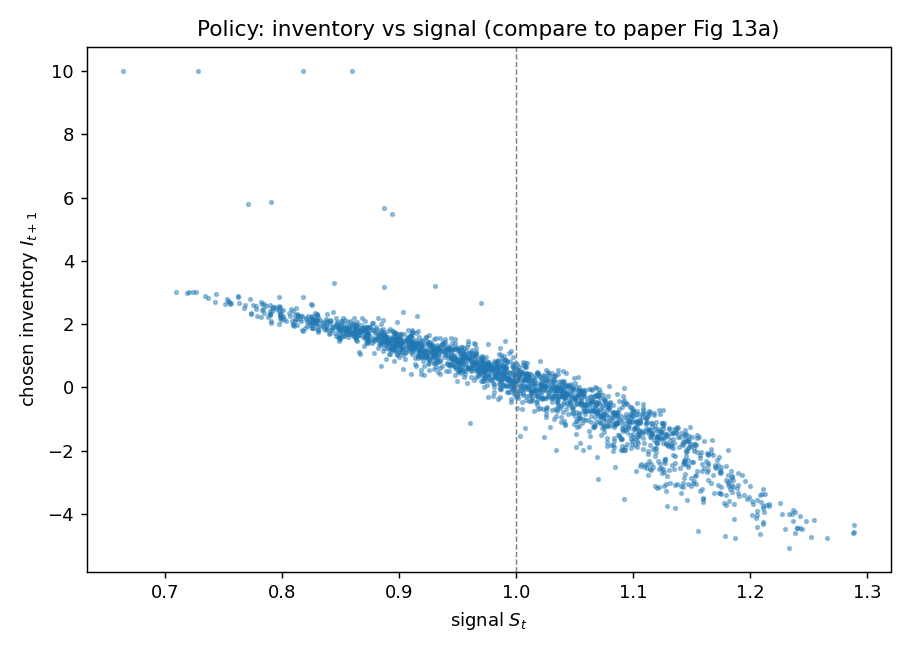
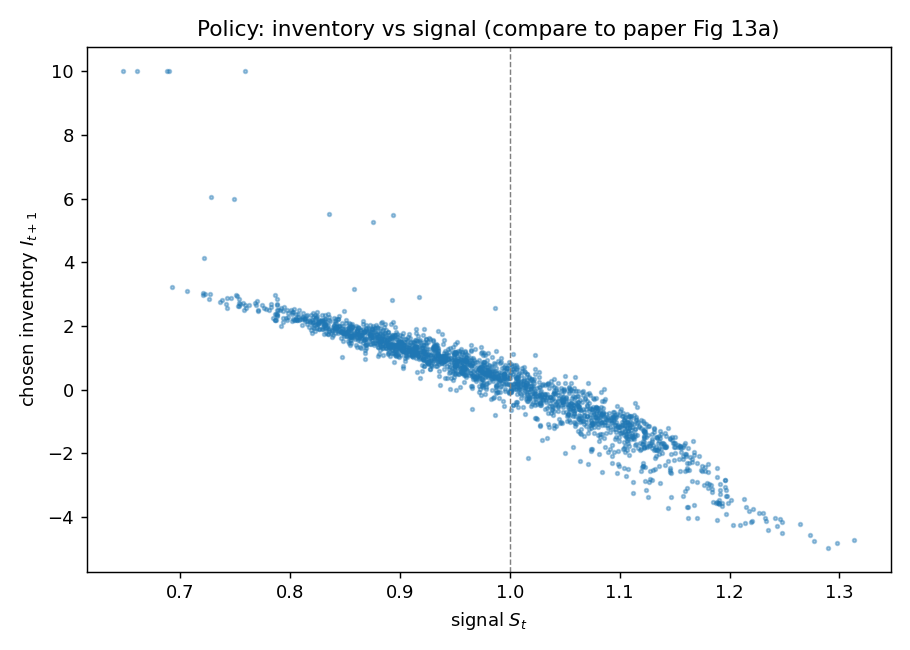
Added output

diff --git a/src/eval/plot_rewards.py b/src/eval/plot_rewards.py
@@ -1,0 +1,81 @@
+"""
+Reward histograms for hid-DDPG (paper Figures 5, 6, 7 -- single-method version).
+
+Each of the paper's Figs 5/6/7 is a 3x3 grid comparing the three algorithms for
+one scenario. For hid-DDPG alone you want the single "hid-DDPG" panel: a
+histogram of the M=500 test-episode cumulative rewards with the mean marked.
+
+Two ways to use this:
+
+  1. Call plot_reward_histogram(...) at the end of your existing eval script,
+     passing the episode_rewards array it already computes.
+
+  2. Run this file directly to plot from a saved .npy of episode rewards
+     (if you save them from eval).
+
+Save episode_rewards from eval with:
+    np.save(f"artifacts/rewards_scenario{cfg.scenario}_hid.npy", episode_rewards)
+"""
+
+import numpy as np
+import matplotlib.pyplot as plt
+
+
+def plot_reward_histogram(episode_rewards, scenario, out_path=None,
+                          bins=50, color="green", label="hid-DDPG"):
+    """
+    Histogram of cumulative rewards over the M test episodes (paper Fig 5/6/7 style).
+
+    Args:
+      episode_rewards : (M,) array of cumulative rewards, one per test episode.
+      scenario        : 1, 2, or 3 (used in the title).
+      out_path        : where to save the png; defaults to a scenario-based name.
+      bins, color     : histogram styling (paper uses green for hid-DDPG).
+    """
+    episode_rewards = np.asarray(episode_rewards)
+    mean = episode_rewards.mean()
+    std = episode_rewards.std()
+
+    # Scenario -> the paper's description of the data-generating process
+    mc_desc = {
+        1: r"$\theta$ modelled as a MC",
+        2: r"$\theta, \kappa$ modelled as a MC",
+        3: r"$\theta, \kappa, \sigma$ modelled as a MC",
+    }[scenario]
+
+    plt.figure(figsize=(7, 5))
+    plt.hist(episode_rewards, bins=bins, alpha=0.6, color=color,
+             label=f"{label} (Mean: {mean:.2f})")
+    plt.axvline(mean, color=color, linestyle="dashed", linewidth=1.8,
+                label=f"Mean ({label})")
+    plt.title(f"Histogram of rewards for {len(episode_rewards)} episodes "
+              f"with {mc_desc}")
+    plt.xlabel("Cumulative rewards")
+    plt.ylabel("Count")
+    plt.legend()
+    plt.grid(True, alpha=0.3)
+    plt.tight_layout()
+
+    if out_path is None:
+        out_path = f"figures/rewards_scenario{scenario}_hid.png"
+    plt.savefig(out_path, dpi=200)
+    plt.close()
+
+    print(f"saved {out_path}")
+    print(f"  mean {mean:.2f} +/- {std:.2f}  (n={len(episode_rewards)} episodes)")
+    return mean, std
+
+
+if __name__ == "__main__":
+    # Plot from saved reward arrays, if you saved them in eval.
+    import os
+    os.makedirs("figures", exist_ok=True)
+
+    for scenario in (1, 2, 3):
+        path = f"artifacts/rewards_scenario{scenario}_hid.npy"
+        if os.path.exists(path):
+            rewards = np.load(path)
+            plot_reward_histogram(rewards, scenario)
+        else:
+            print(f"skip scenario {scenario}: {path} not found "
+                  f"(save episode_rewards from eval first)")

diff --git a/src/eval/scenario1_hid_eval.py b/src/eval/scenario1_hid_eval.py
@@ -8,6 +8,7 @@ from src.models.ddpg import DDPG
 from src.models.gru import GRUEncoder
 from src.utils.config import load_config
 from src.utils.ou_args import ou_args_from_cfg
+from src.eval.plot_rewards import plot_reward_histogram
 
 
 cfg = load_config("configs/scenario1_hid.yaml")
@@ -22,7 +23,7 @@ print(f"seed: {seed}")
 encoder = GRUEncoder(cfg.d_h, cfg.d_l, enc_dim=cfg.enc_dim)
 ddpg = DDPG(cfg.state_dim, cfg.action_dim, cfg.d_NN, cfg.l_NN, cfg.I_max, cfg.gamma, cfg.tau, cfg.lr)   # no encoder arg
 
-ckpt = torch.load("artifacts/scenario1_hid.pt")
+ckpt = torch.load("artifacts/backup/scenario1_hid_backup.pt")
 ddpg.actor.load_state_dict(ckpt["actor"])
 ddpg.critic.load_state_dict(ckpt["critic"])
 encoder.load_state_dict(ckpt["encoder"])
@@ -35,8 +36,8 @@ invs = []
 
 with torch.no_grad():
     for i in range(cfg.M):
-        # TEST phase: fixed start S_0 = 1 (paper), inventory I_0 = 0.
-        S, _ = simulate_path(cfg.n, rng, cfg.regimes, cfg.A, cfg.dt, kappa=kappa, sigma=sigma, s0=1.0, **ou_kw)
+        S, _ = simulate_path(cfg.n, rng, cfg.regimes, cfg.A, cfg.dt,
+                             kappa=kappa, sigma=sigma, s0=1.0, **ou_kw)
         inventory = torch.zeros(1, 1)
         total_reward = 0.0
 
@@ -44,23 +45,27 @@ with torch.no_grad():
             window = torch.tensor(S[t-cfg.W:t+1], dtype=torch.float32).reshape(1, -1)
             S_t_col = torch.tensor([[S[t]]], dtype=torch.float32)
 
-            o_t, _ = encoder(window)                          # unpack: encoding head only
+            o_t, _ = encoder(window)
             S_t_norm = normalize_state_features(S_t_col)
             state = torch.cat([S_t_norm, inventory, o_t], dim=1)
 
-            action = ddpg.actor(state)                        # I_{t+1} (deterministic, no noise)
+            action = ddpg.actor(state)
             r = step_reward(inventory, action, S[t], S[t+1], cfg.lam)
             total_reward += r.item()
 
-            if i == 0:                                        # record first episode for the scatter
+            if i == 0:
                 signals.append(S[t])
                 invs.append(action.item())
 
-            inventory = action                                # roll forward: new inventory = action
+            inventory = action
 
-        episode_rewards.append(total_reward)
+        episode_rewards.append(total_reward)      # <-- only this, no np.array() here
 
-# --- scatter: chosen inventory vs signal (acceptance test vs paper Fig 13a) ---
+# --- convert ONCE, after the loop ---
+episode_rewards = np.array(episode_rewards)
+print(f"mean {episode_rewards.mean():.2f} +/- {episode_rewards.std():.2f}")
+
+# --- scatter (Fig 13a) ---
 plt.figure(figsize=(7, 5))
 plt.scatter(signals, invs, s=4, alpha=0.4)
 plt.axvline(1.0, color="gray", ls="--", lw=0.8)
@@ -69,6 +74,11 @@ plt.ylabel("chosen inventory $I_{t+1}$")
 plt.title("Policy: inventory vs signal (compare to paper Fig 13a)")
 plt.tight_layout()
 plt.savefig("policy_scatter.png", dpi=130)
+plt.close()
 
-episode_rewards = np.array(episode_rewards)
-print(f"mean {episode_rewards.mean():.2f} +/- {episode_rewards.std():.2f}")
+# --- save rewards + Figure 5/6/7 histogram ---
+import os
+os.makedirs("artifacts", exist_ok=True)
+os.makedirs("figures", exist_ok=True)
+np.save(f"artifacts/rewards_scenario{cfg.scenario}_hid.npy", episode_rewards)
+plot_reward_histogram(episode_rewards, cfg.scenario, bins=10)

diff --git a/src/eval/scenario2_hid_eval.py b/src/eval/scenario2_hid_eval.py
@@ -8,6 +8,7 @@ from src.models.ddpg import DDPG
 from src.models.gru import GRUEncoder
 from src.utils.config import load_config
 from src.utils.ou_args import ou_args_from_cfg
+from src.eval.plot_rewards import plot_reward_histogram
 
 
 cfg = load_config("configs/scenario2_hid.yaml")
@@ -22,7 +23,7 @@ print(f"seed: {seed}")
 encoder = GRUEncoder(cfg.d_h, cfg.d_l, enc_dim=cfg.enc_dim)
 ddpg = DDPG(cfg.state_dim, cfg.action_dim, cfg.d_NN, cfg.l_NN, cfg.I_max, cfg.gamma, cfg.tau, cfg.lr)   # no encoder arg
 
-ckpt = torch.load("artifacts/scenario2_hid.pt")
+ckpt = torch.load("artifacts/backup/scenario2_hid_backup.pt")
 ddpg.actor.load_state_dict(ckpt["actor"])
 ddpg.critic.load_state_dict(ckpt["critic"])
 encoder.load_state_dict(ckpt["encoder"])
@@ -69,6 +70,14 @@ plt.ylabel("chosen inventory $I_{t+1}$")
 plt.title("Policy: inventory vs signal (compare to paper Fig 13a)")
 plt.tight_layout()
 plt.savefig("policy_scatter2.png", dpi=130)
+plt.close()
 
 episode_rewards = np.array(episode_rewards)
 print(f"mean {episode_rewards.mean():.2f} +/- {episode_rewards.std():.2f}")
+
+# --- save rewards + Figure 6 histogram (scenario 2) ---
+import os
+os.makedirs("artifacts", exist_ok=True)
+os.makedirs("figures", exist_ok=True)
+np.save(f"artifacts/rewards_scenario{cfg.scenario}_hid.npy", episode_rewards)
+plot_reward_histogram(episode_rewards, cfg.scenario, bins=10)

diff --git a/src/eval/scenario3_hid_eval.py b/src/eval/scenario3_hid_eval.py
@@ -8,6 +8,7 @@ from src.models.ddpg import DDPG
 from src.models.gru import GRUEncoder
 from src.utils.config import load_config
 from src.utils.ou_args import ou_args_from_cfg
+from src.eval.plot_rewards import plot_reward_histogram
 
 
 cfg = load_config("configs/scenario3_hid.yaml")
@@ -22,7 +23,7 @@ print(f"seed: {seed}")
 encoder = GRUEncoder(cfg.d_h, cfg.d_l, enc_dim=cfg.enc_dim)
 ddpg = DDPG(cfg.state_dim, cfg.action_dim, cfg.d_NN, cfg.l_NN, cfg.I_max, cfg.gamma, cfg.tau, cfg.lr)   # no encoder arg
 
-ckpt = torch.load("artifacts/scenario3_hid.pt")
+ckpt = torch.load("artifacts/backup/scenario3_hid_backup.pt")
 ddpg.actor.load_state_dict(ckpt["actor"])
 ddpg.critic.load_state_dict(ckpt["critic"])
 encoder.load_state_dict(ckpt["encoder"])
@@ -69,6 +70,14 @@ plt.ylabel("chosen inventory $I_{t+1}$")
 plt.title("Policy: inventory vs signal (compare to paper Fig 13a)")
 plt.tight_layout()
 plt.savefig("policy_scatter3.png", dpi=130)
+plt.close()
 
 episode_rewards = np.array(episode_rewards)
 print(f"mean {episode_rewards.mean():.2f} +/- {episode_rewards.std():.2f}")
+
+# --- save rewards + Figure 6 histogram (scenario 2) ---
+import os
+os.makedirs("artifacts", exist_ok=True)
+os.makedirs("figures", exist_ok=True)
+np.save(f"artifacts/rewards_scenario{cfg.scenario}_hid.npy", episode_rewards)
+plot_reward_histogram(episode_rewards, cfg.scenario, bins=10)